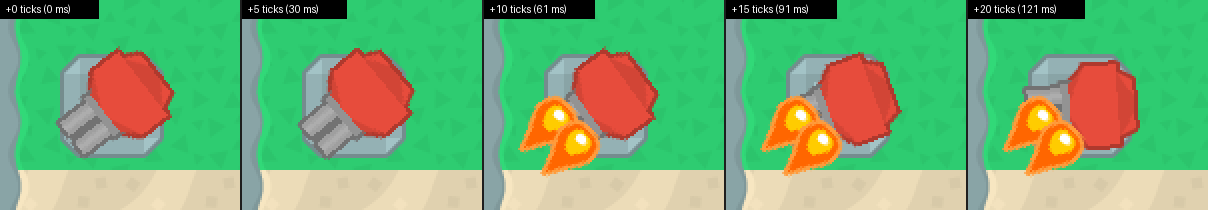
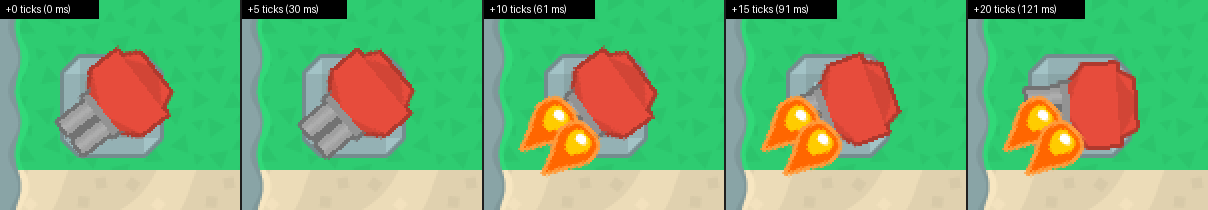
fix: Address review of smooth turret turning (#83)
- Turn at most one tick's worth per update, so a tower built mid-run
  turns toward its first target instead of snapping.
- Cache plain rotated images in a shared LRU (512 entries, at most about
  17 MB) instead of an unbounded cache of fixed 92 px canvases.
- rotate_to_angle_cached() skips the work when the (image, step) pair is
  unchanged; the tower calls it every tick and no longer tracks steps.
- Round halves up in quantise_angle().
- The whole-battle targeting reference no longer runs the turning code;
  turning has its own tests, with hand-computed helper values.

diff --git a/tests/test_turret_turning.py b/tests/test_turret_turning.py
@@ -7,10 +7,10 @@ from pygame.math import Vector2
 
 from domain.game_state import GameState
 from gameplay.combat.projectile import MuzzleFlash
+from gameplay import rotatable_object
 from gameplay.rotatable_object import (
-    ANGLE_STEP,
+    cached_rotation,
     quantise_angle,
-    rotated_on_canvas,
     turn_toward,
     wrap_angle,
 )
@@ -92,11 +92,40 @@ def test_turn_toward_stays_wrapped():
         assert -180 <= turn_toward(current, target, 1) < 180
 
 
-def test_wrap_and_quantise():
+def test_turn_toward_hand_computed_values():
+    # Worked by hand: the signed shortest difference, then one capped step.
+    assert turn_toward(-170, 170, 30) == pytest.approx(170)  # 20 apart: lands
+    assert turn_toward(-170, 170, 15) == pytest.approx(175)  # -185 wraps to 175
+    assert turn_toward(10, -10, 4) == pytest.approx(6)  # down through 0
+    # Exactly opposite: the difference wraps to -180, so it turns negative.
+    assert turn_toward(-90, 90, 45) == pytest.approx(-135)
+    assert turn_toward(135, -135, 100) == pytest.approx(-135)  # 90 apart: lands
+    assert turn_toward(0, 0, 0) == pytest.approx(0)
+
+
+def test_wrap_angle_hand_computed_values():
     assert wrap_angle(190) == pytest.approx(-170)
     assert wrap_angle(-190) == pytest.approx(170)
-    assert quantise_angle(ANGLE_STEP * 3 + 0.4) == ANGLE_STEP * 3
-    assert quantise_angle(179.9) == -180
+    assert wrap_angle(180) == pytest.approx(-180)
+    assert wrap_angle(540) == pytest.approx(-180)
+    assert wrap_angle(-180) == pytest.approx(-180)
+    assert wrap_angle(359) == pytest.approx(-1)
+
+
+def test_quantise_angle_hand_computed_values():
+    # 2 degree steps, halves rounding up, wrapped to [-180, 180).
+    assert quantise_angle(0.0) == 0
+    assert quantise_angle(0.9) == 0
+    assert quantise_angle(1.0) == 2
+    assert quantise_angle(3.0) == 4
+    assert quantise_angle(5.0) == 6
+    assert quantise_angle(6.4) == 6
+    assert quantise_angle(-0.9) == 0
+    assert quantise_angle(-1.1) == -2
+    assert quantise_angle(-3.0) == -2
+    assert quantise_angle(179.0) == -180
+    assert quantise_angle(-179.2) == -180
+    assert quantise_angle(270.0) == -90
 
 
 # ── the barrel in the game loop ──────────────────────────────────────────────
@@ -181,14 +210,12 @@ def test_a_tower_that_never_aimed_keeps_its_sprite(tower_config, assets):
     assert tower.is_rotated is False
 
 
-def test_the_drawn_sprite_keeps_one_size_and_its_centre(tower_config, assets):
+def test_the_drawn_sprite_keeps_its_centre(tower_config, assets):
     tower = make_tower(tower_config, assets)
-    sizes = set()
     for angle in range(-180, 180, 7):
         tower.rotate_to_angle_cached(angle)
-        sizes.add(tower.image.get_size())
         assert tower.rect.center == (int(tower.position.x), int(tower.position.y))
-    assert len(sizes) == 1
+        assert tower.rect.size == tower.image.get_size()
 
 
 def test_rotated_images_are_cached(tower_config, assets):
@@ -198,7 +225,52 @@ def test_rotated_images_are_cached(tower_config, assets):
     tower.rotate_to_angle_cached(32.4)  # same step
     assert tower.image is first
     source = tower.images[None]
-    assert rotated_on_canvas(source, 10) is rotated_on_canvas(source, 10)
+    assert cached_rotation(source, 10) is cached_rotation(source, 10)
+
+
+def test_an_unchanged_step_is_not_redrawn(tower_config, assets, monkeypatch):
+    tower = make_tower(tower_config, assets)
+    tower.rotate_to_angle_cached(40)
+    calls = []
+    monkeypatch.setattr(
+        rotatable_object,
+        "cached_rotation",
+        lambda source, rotation: calls.append(rotation) or source,
+    )
+    tower.rotate_to_angle_cached(40.3)  # same step: nothing to do
+    assert calls == []
+    tower.rotate_to_angle_cached(44)  # next step
+    assert calls == [-44]
+
+
+def test_the_rotation_cache_is_bounded(monkeypatch):
+    import pygame
+
+    monkeypatch.setattr(rotatable_object, "MAX_CACHED_ROTATIONS", 5)
+    monkeypatch.setattr(
+        rotatable_object, "_rotation_cache", type(rotatable_object._rotation_cache)()
+    )
+    source = pygame.Surface((8, 8), pygame.SRCALPHA)
+    others = [pygame.Surface((8, 8), pygame.SRCALPHA) for _ in range(20)]
+    kept = cached_rotation(source, 0)
+    for i, other in enumerate(others):
+        cached_rotation(other, 2 * i)
+        cached_rotation(source, 0)  # used every time: stays cached
+    assert len(rotatable_object._rotation_cache) == 5
+    assert cached_rotation(source, 0) is kept
+    assert (others[0], 0) not in rotatable_object._rotation_cache
+
+
+def test_a_tower_built_mid_run_turns_rather_than_snaps(tower_config, assets):
+    """A new tower's clock starts at 0; its first update must not count the
+    whole run so far as turning time."""
+    tower = make_tower(tower_config, assets)
+    enemy = FakeEnemy(tower.position + Vector2(0, 50))  # 90 degrees away
+    gs = make_state()
+    gs.time_ms = 400_000.0
+    tick(tower, gs, [enemy])
+    one_tick = TURN_RATE_DEG_PER_S * TICK_MS / 1000
+    assert tower.barrel_angle == pytest.approx(one_tick)
 
 
 def test_upgrade_keeps_the_barrel_angle(tower_config, assets):

diff --git a/src/gameplay/rotatable_object.py b/src/gameplay/rotatable_object.py
@@ -1,4 +1,5 @@
 import math
+from collections import OrderedDict
 from typing import override
 
 import pygame
@@ -20,10 +21,15 @@ FACE_UP = -90
 # turrets' 26 px barrel length a step moves the tip under a pixel.
 ANGLE_STEP = 2
 
-# (source surface, quantised angle) -> the source rotated by that angle onto
-# a fixed-size square canvas. The sources are load_image()'s cached
-# surfaces, so this stays small: one entry per image and angle step.
-_rotation_cache: dict[tuple[pygame.Surface, int], pygame.Surface] = {}
+# Rotated images shared by every object, least recently used dropped first:
+# (source surface, rotation step) -> the source rotated by that much. The
+# bound keeps it small whatever the sources are (shared load_image()
+# surfaces, or a scaled copy per object): a 64 px sprite rotates to at most
+# 91x91 px (33 KB), so 512 entries hold at most about 17 MB. The turrets'
+# sprites need 8 x 180 steps in all; a step dropped is re-rotated (tens of
+# microseconds) the next time it is drawn.
+MAX_CACHED_ROTATIONS = 512
+_rotation_cache: OrderedDict[tuple[pygame.Surface, int], pygame.Surface] = OrderedDict()
 
 
 def wrap_angle(angle: float) -> float:
@@ -43,26 +49,24 @@ def turn_toward(current: float, target: float, max_step: float) -> float:
 
 
 def quantise_angle(angle: float) -> int:
-    """`angle` rounded to the nearest ANGLE_STEP, wrapped to [-180, 180)."""
-    return int(wrap_angle(round(angle / ANGLE_STEP) * ANGLE_STEP))
+    """`angle` rounded to the nearest ANGLE_STEP (halves round up), wrapped
+    to [-180, 180)."""
+    return int(wrap_angle(math.floor(angle / ANGLE_STEP + 0.5) * ANGLE_STEP))
 
 
-def rotated_on_canvas(source: pygame.Surface, rotation: int) -> pygame.Surface:
+def cached_rotation(source: pygame.Surface, rotation: int) -> pygame.Surface:
     """`source` rotated by `rotation` degrees (counter-clockwise, as
-    pygame.transform.rotate) and centred on a square canvas big enough for
-    any rotation of it, so every angle gives the same size and the sprite's
-    centre never shifts between frames. Cached."""
+    pygame.transform.rotate), from the shared LRU cache."""
     key = (source, rotation)
-    cached = _rotation_cache.get(key)
-    if cached is None:
-        w, h = source.get_size()
-        side = math.ceil(math.hypot(w, h))
-        side += side % 2  # even, like the 64 px sources: centres stay whole
+    rotated = _rotation_cache.get(key)
+    if rotated is None:
         rotated = pygame.transform.rotate(source, rotation)
-        cached = pygame.Surface((side, side), pygame.SRCALPHA)
-        cached.blit(rotated, rotated.get_rect(center=(side // 2, side // 2)))
-        _rotation_cache[key] = cached
-    return cached
+        _rotation_cache[key] = rotated
+        if len(_rotation_cache) > MAX_CACHED_ROTATIONS:
+            _rotation_cache.popitem(last=False)
+    else:
+        _rotation_cache.move_to_end(key)
+    return rotated
 
 
 class RotatableObject(StateObject):
@@ -80,6 +84,8 @@ class RotatableObject(StateObject):
         self.rotated_image: pygame.Surface | None = None
         self.is_rotated = False
         self.sprite_orientation = sprite_orientation
+        # The (source image, rotation step) rotate_to_angle_cached() drew.
+        self._rotation_key: tuple[pygame.Surface, int] | None = None
 
     def load(
         self, path: PathLike, size: tuple[int, int] = (0, 0), nine_slice: int = 0
@@ -106,14 +112,21 @@ class RotatableObject(StateObject):
         self.is_rotated = True
 
     def rotate_to_angle_cached(self, angle: float) -> None:
-        """Like rotate_to_angle(), for a sprite that turns smoothly every
-        tick: the angle is rounded to ANGLE_STEP and the rotated image comes
-        from a shared cache on a fixed-size canvas, so the sprite neither
-        wobbles nor re-rotates every tick."""
+        """Like rotate_to_angle(), for a sprite that turns smoothly and is
+        called every tick: the angle is rounded to ANGLE_STEP, nothing is
+        done while the (image, step) pair is unchanged, and rotated images
+        come from a shared bounded cache. The rect is re-centred on the
+        position, so the sprite keeps its centre at every angle."""
+        source = self.get_component(SpriteRenderer2D).image
         rotation = quantise_angle(self.sprite_orientation - angle)
-        self.rotated_image = rotated_on_canvas(
-            self.get_component(SpriteRenderer2D).image, rotation
-        )
+        if (
+            self.is_rotated
+            and self.rotated_image is not None
+            and self._rotation_key == (source, rotation)
+        ):
+            return
+        self._rotation_key = (source, rotation)
+        self.rotated_image = cached_rotation(source, rotation)
         self.rect.size = self.rotated_image.get_size()
         self.rect.center = self.position
         self.is_rotated = True

diff --git a/src/gameplay/towers/ground_tower.py b/src/gameplay/towers/ground_tower.py
@@ -4,11 +4,12 @@ import pygame
 from pygame.math import Vector2
 
 from pygamine import angle_of_delta
-from gameplay.rotatable_object import RotatableObject, quantise_angle, turn_toward
+from gameplay.rotatable_object import RotatableObject, turn_toward
 from domain.game_state import GameState, TowerConfig
 from gameplay.combat.projectile import MuzzleFlash, Projectile
 from gameplay.combat.targeting import EnemyGrid
 from gameplay.towers.base_tower import BaseTower
+from util.constants import TICK_MS
 
 BARREL_FORWARD = 26  # px from tower center to barrel tip along aim direction
 BARREL_SPREAD = 8  # px lateral offset from center for twin-barrel towers
@@ -45,12 +46,15 @@ class GroundTower(BaseTower):
         # faces its sprite's default way until it aims again.
         self.barrel_angle: float = float(self.sprite_orientation)
         self.aim_angle: float | None = None
-        self._drawn_step: int | None = None
 
     def update(
         self, game_state: GameState, enemies: list, enemy_grid: EnemyGrid | None = None
     ) -> None:
-        elapsed_ms = max(0.0, game_state.time_ms - self.now)
+        # At most one tick's worth of turning: a tower built mid-run starts
+        # with now = 0, and must not snap on its first update.
+        elapsed_ms = min(
+            max(0.0, game_state.time_ms - self.now), TICK_MS * game_state.speed
+        )
         self.now = game_state.time_ms
         self.work(enemies, game_state.is_started, enemy_grid, elapsed_ms)
 
@@ -103,12 +107,7 @@ class GroundTower(BaseTower):
             return
         max_step = TURN_RATE_DEG_PER_S * elapsed_ms / 1000
         self.barrel_angle = turn_toward(self.barrel_angle, self.aim_angle, max_step)
-        # Re-render only when the drawn step changes, or after load() (an
-        # upgrade) put back the unrotated image.
-        step = quantise_angle(self.barrel_angle)
-        if step != self._drawn_step or not self.is_rotated:
-            self.rotate_to_angle_cached(self.barrel_angle)
-            self._drawn_step = step
+        self.rotate_to_angle_cached(self.barrel_angle)  # no-op if the step is unchanged
 
     def _is_attack_ready(self) -> bool:
         return self.now - self.last_reload_time > self.speed

diff --git a/tests/test_targeting.py b/tests/test_targeting.py
@@ -317,15 +317,19 @@ def test_planes_alone_are_no_target():
 
 
 def _reference_work(self, enemies, is_started, enemy_grid=None, elapsed_ms=0.0):
-    index = None
-    if is_started and enemies:
-        index = reference_enemy(enemies, self.position, self.range, self.min_range)
-    if index is not None:
-        delta = enemies[index].position - self.position
-        if delta.length_squared() != 0:
-            self.aim_angle = angle_of_delta(delta)
-    self._turn_barrel(elapsed_ms)  # the drawn barrel (issue #83)
-    if index is not None and self._is_attack_ready():
+    """The old full-scan targeting. It sets the aim the way the old code
+    did, straight from the target's direction, and leaves the drawn barrel
+    alone: turning is cosmetic and is tested on its own in
+    test_turret_turning.py."""
+    if not is_started or not enemies:
+        return
+    index = reference_enemy(enemies, self.position, self.range, self.min_range)
+    if index is None:
+        return
+    delta = enemies[index].position - self.position
+    if delta.length_squared() != 0:
+        self.aim_angle = angle_of_delta(delta)
+    if self._is_attack_ready():
         self._shoot(enemies[index])
 
 
@@ -345,9 +349,11 @@ def _target_id(bullet):
 
 
 def _snapshot(demo):
-    """Everything targeting decides: who each tower and tank aims at (their
-    sprite's rotated size and aim angle, the tank's muzzle angle) and shoots at (their
-    bullets' targets), and what came of it (HP, kills, positions)."""
+    """Everything targeting decides: who each tower and tank aims at (a
+    ground tower's aim_angle, the tank's muzzle angle) and shoots at (their
+    bullets' targets), and what came of it (HP, kills, positions). Not the
+    towers' drawn barrels: turning is cosmetic, tested in
+    test_turret_turning.py."""
     return (
         demo.game_state.level,
         [
@@ -367,7 +373,7 @@ def _snapshot(demo):
                 t.col,
                 t.hp,
                 t.kills,
-                tuple(t.rect),
+                tuple(t.position),
                 getattr(t, "aim_angle", None),
                 [_target_id(b) for b in t.bullets],
             )

diff --git a/docs/devlog/2026-11-02-smooth-turret-turning.md b/docs/devlog/2026-11-02-smooth-turret-turning.md
@@ -45,9 +45,19 @@ tips. Details chosen by Claude, for review in the PR:
   appears at the drawn tips and points along the barrel; the damage goes to the target as before
   (muzzle flashes are instant hits, so their position never mattered for damage).
 - **No wobble:** the drawn angle is rounded to 2° steps (the tip of a 26 px barrel moves under a
-  pixel per step). Each rotated image is drawn once onto a fixed-size square canvas (92 px for the
-  64 px sprites) and cached per source image and step, so the sprite keeps one size and its centre
-  at every angle, and a tower no longer re-rotates its image every tick.
+  pixel per step). The sprite is re-centred on the tower at every step, and it is only redrawn
+  when its (image, step) pair changes, not every tick. Rotated images come from a shared cache
+  with a least-recently-used bound of 512 entries: at most about 17 MB, since a 64 px sprite
+  rotates to at most 91x91 px. A first version drew each angle onto a fixed 92 px canvas; the
+  code review found it held up to about 50 MB with no bound, and measuring showed it didn't
+  steady the sprite any better than re-centring the plain rotated image.
+- **First update:** each tick turns the barrel by at most one tick's worth (`TICK_MS` × speed),
+  so a tower built mid-run (whose clock starts at 0) turns toward its first target rather than
+  snapping to it.
+- **Missiles:** the missile tower's projectile still leaves from the tower's centre, whichever way
+  the barrel is drawn. Spawning it at the drawn barrel tip would change its flight time, and so
+  when its damage lands, which is gameplay. During a retarget a missile can be seen leaving
+  sideways from a barrel that is still turning. Left for the owner to judge.
 - **Saves:** unchanged. The drawn angle isn't saved; a loaded tower faces its sprite's default
   way until it next aims.
 - Planes are unchanged. The menu demo uses the same towers, so it turns smoothly too.
@@ -65,7 +75,8 @@ tips. Details chosen by Claude, for review in the PR:
 A seeded headless battle (wave 6 at x1, 4,000 ticks, and x4, 4,000 ticks) records money, lives,
 every enemy's id and HP, and every tower's kills, money earned and reload time on every tick; the
 record is byte-for-byte the same before and after. `tests/test_turret_turning.py` covers the
-stepping (rate, wrap-around, pause, x4), the fixed size and centre, the cache, upgrades, the flash
+stepping (rate, wrap-around, pause, x4, a tower built mid-run), hand-computed values for the
+angle helpers, the fixed centre, the bounded cache, upgrades, the flash
 position, and that a tower fires the same shots for the same damage whichever way its barrel starts.
 
 ## Revisit if

diff --git a/CLAUDE.md b/CLAUDE.md
@@ -139,7 +139,7 @@ YAML keys for text objects: `type: text`, `position`, `text`, `font`, `font_size
 
 `BaseTower` (abstract) → `GroundTower` (types 1–3) or `PlaneTower` (type 4). `TowerFactory.create()` returns the right subclass. Stats come from `config/towers.yaml` via `TowerConfig` (indexed `[type-1][level-1]`).
 
-- Ground towers' barrels turn smoothly (cosmetic): `aim_angle` is the target's direction, set each tick; the drawn `barrel_angle` turns toward it at `TURN_RATE_DEG_PER_S` of game time, the shortest way. Firing never waits for it. Rotated images come from a shared cache per 2° step on a fixed-size canvas (`RotatableObject.rotate_to_angle_cached`), so the sprite keeps its size and centre
+- Ground towers' barrels turn smoothly (cosmetic): `aim_angle` is the target's direction, set each tick; the drawn `barrel_angle` turns toward it at `TURN_RATE_DEG_PER_S` of game time, the shortest way, at most one tick's worth per update (so a tower built mid-run doesn't snap). Firing never waits for it. `RotatableObject.rotate_to_angle_cached` draws 2° steps, redraws only when the (image, step) pair changes, and takes rotated images from a shared LRU cache (`MAX_CACHED_ROTATIONS`), re-centred on the position. The missile still spawns at the tower's centre: moving it to the barrel tip would change damage timing
 - Types 1 & 3: instant-hit `MuzzleFlash` at the drawn barrel tips (twin barrels for type 1 and type 3 lvl 2); damage goes to the target whichever way the barrel points
 - Type 2: homing `Projectile`
 - Type 4: plane that flies across the map, dropping `Bomb` projectiles (splash damage) along its path. Bombs still falling when the plane leaves the map and is removed carry on and land as usual (credited to the departed plane)
